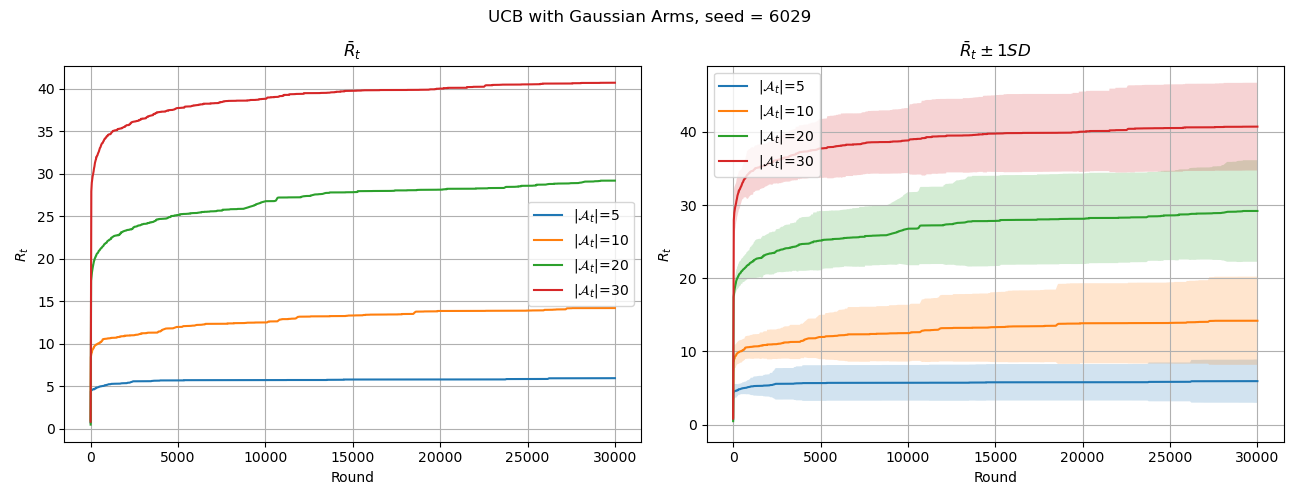
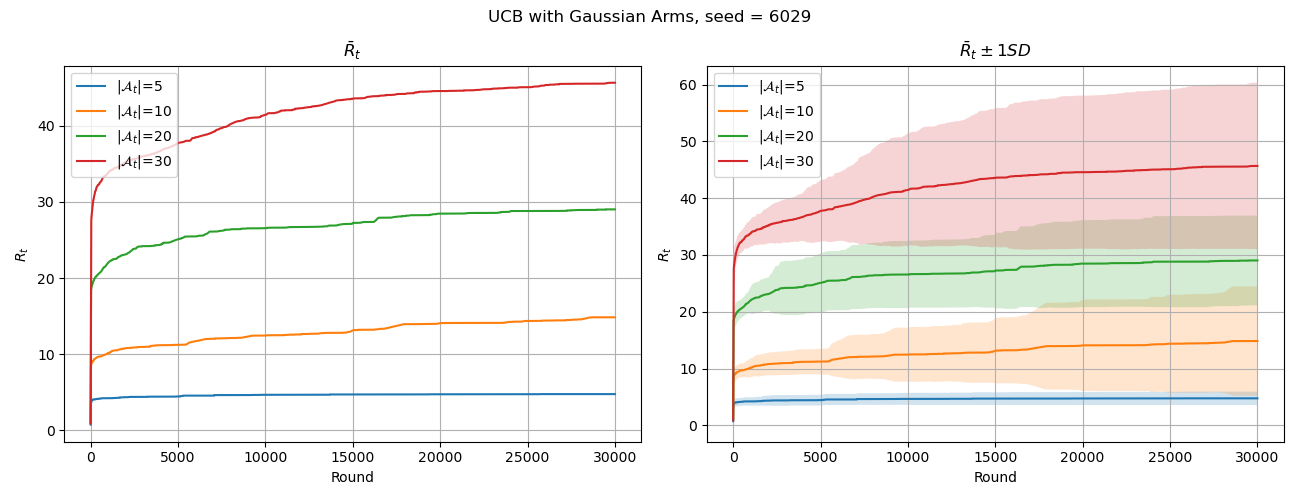
update repository

diff --git a/latent-contextual-bandit/modules/models.py b/latent-contextual-bandit/modules/models.py
@@ -32,9 +32,10 @@ class LinUCB(ContextualBandit):
         ucb_scores = expected + (self.alpha * width) # (N, ) ucb score
         
         ## chose the argmax the ucb score
-        maximum = np.max(ucb_scores)
-        argmax, = np.where(ucb_scores == maximum)        
-        return np.random.choice(argmax)
+        # maximum = np.max(ucb_scores)
+        # argmax, = np.where(ucb_scores == maximum)
+        # return np.random.choice(argmax)
+        return np.argmax(ucb_scores)
     
     def update(self, x, r):
         # x: context of the chosen action (d, )

diff --git a/latent-contextual-bandit/modules/ucb_vary.py b/latent-contextual-bandit/modules/ucb_vary.py
@@ -145,7 +145,7 @@ if __name__ == "__main__":
     T = 30000
     TRIALS = 10
     SIGMA = 0.1
-    ALPHA = 0.3
+    ALPHA = 1.0
     SEED = get_primes(start=6000, end=10000)
     # SEED = [i for i in range(350, 400)]
     PATH = "/home/sungwoopark/bandit-research/latent-contextual-bandit/modules/seed_comparison2/figures/UCB/arms_vary"
